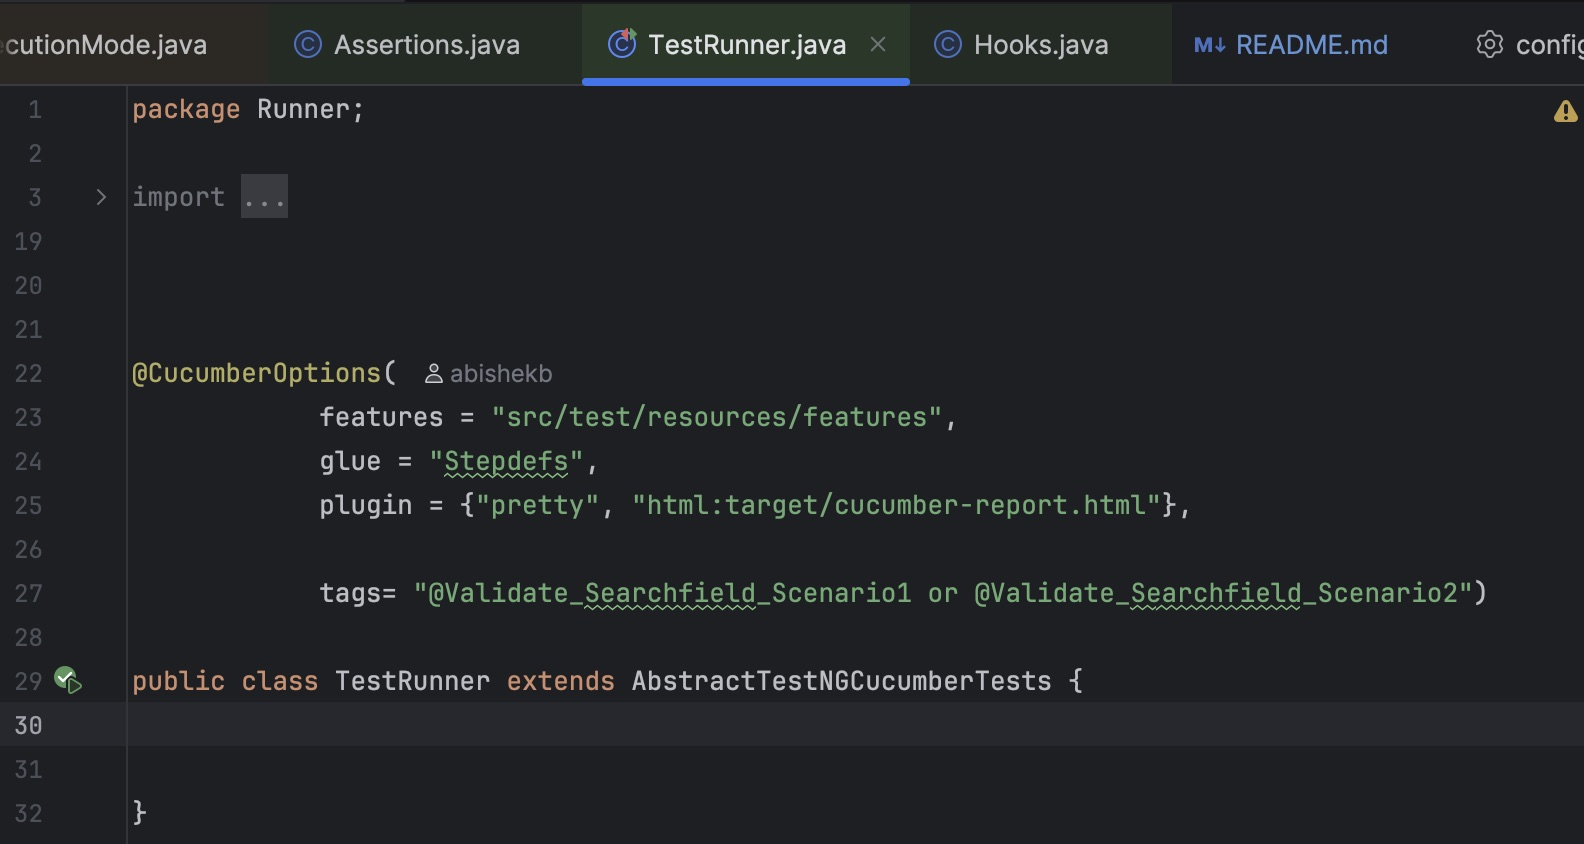
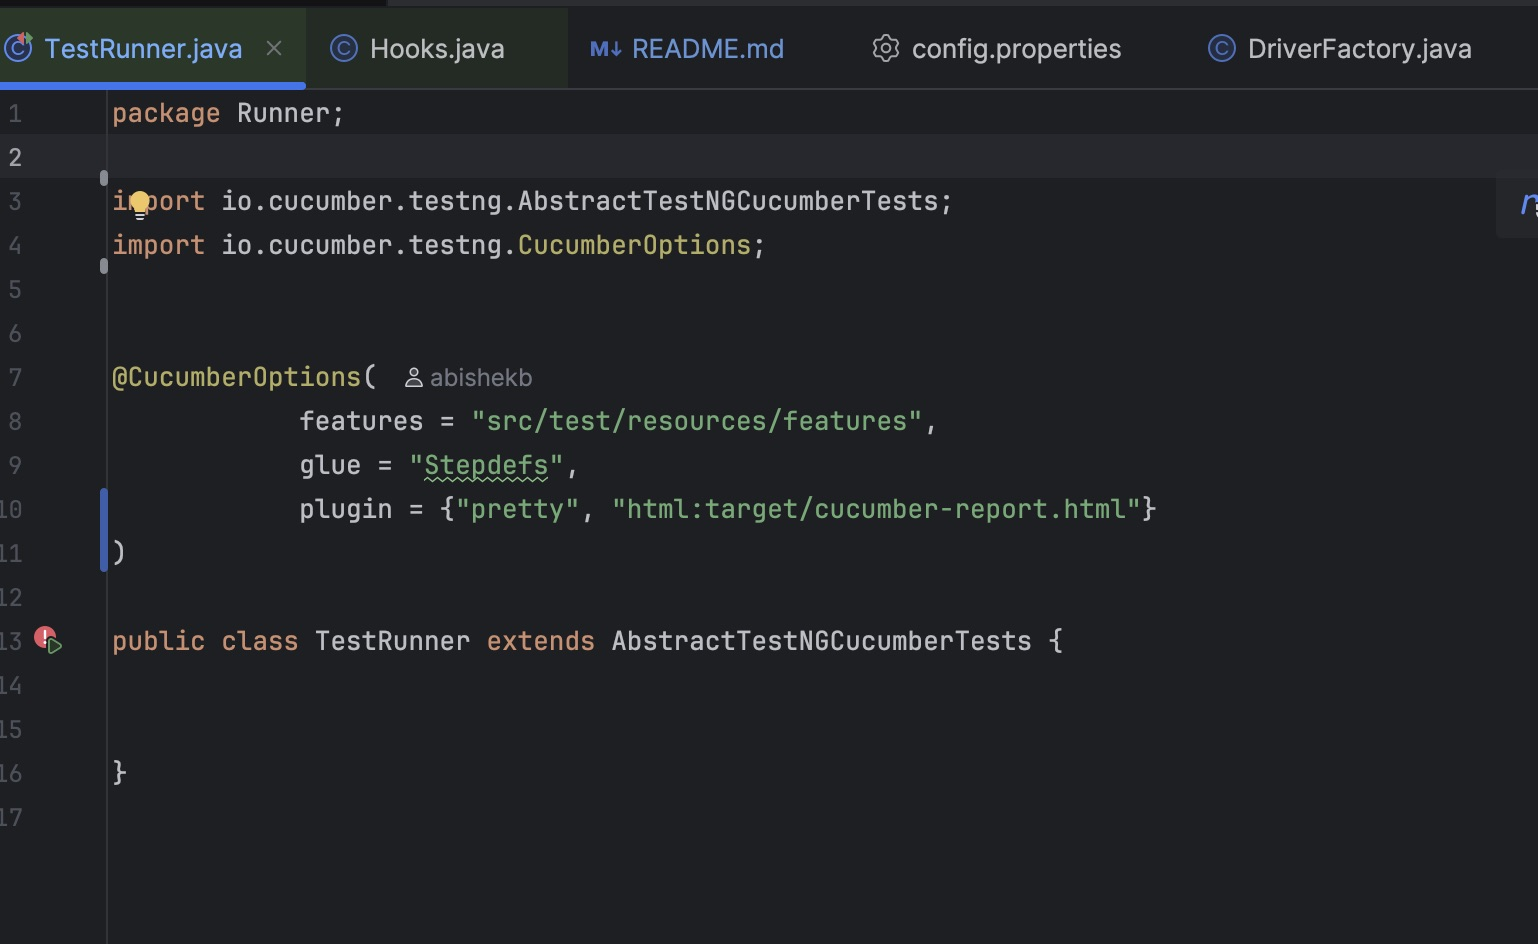
git commit -m "refactor: Updated test runner for mvn execution"

diff --git a/src/test/java/Runner/TestRunner.java b/src/test/java/Runner/TestRunner.java
@@ -1,30 +1,14 @@
 package Runner;
 
-import Utils.Assertions;
-import io.cucumber.java.After;
-import io.cucumber.java.Before;
-import io.cucumber.java.Scenario;
 import io.cucumber.testng.AbstractTestNGCucumberTests;
 import io.cucumber.testng.CucumberOptions;
-import org.testng.annotations.AfterClass;
-import org.testng.annotations.AfterTest;
-import org.testng.annotations.BeforeClass;
-import org.testng.annotations.BeforeTest;
-import utils.DriverFactory;
-import utils.utility;
-
-import java.time.Duration;
-
-import static utils.DriverFactory.driver;
-
 
 
 @CucumberOptions(
             features = "src/test/resources/features",
             glue = "Stepdefs",
-            plugin = {"pretty", "html:target/cucumber-report.html"},
-
-            tags= "@Validate_Searchfield_Scenario1")
+            plugin = {"pretty", "html:target/cucumber-report.html"}
+)
 
 public class TestRunner extends AbstractTestNGCucumberTests {
 